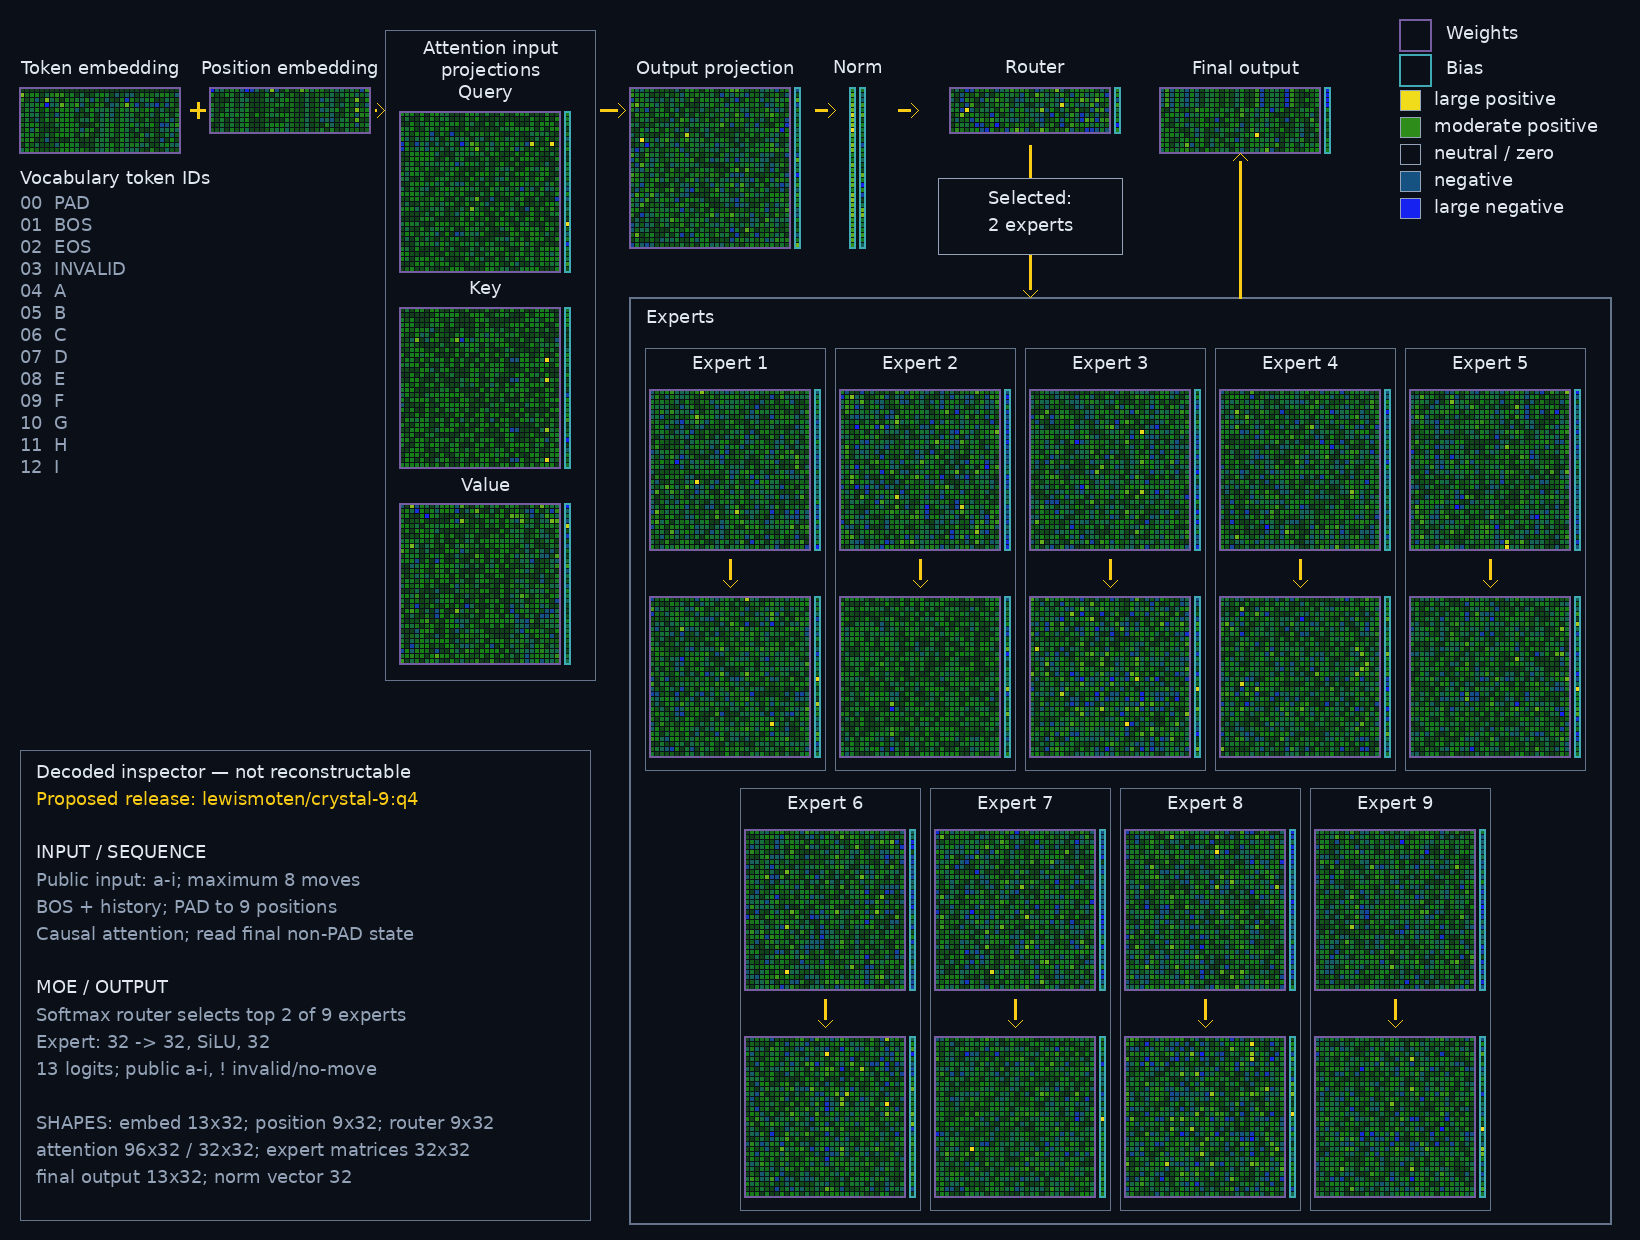
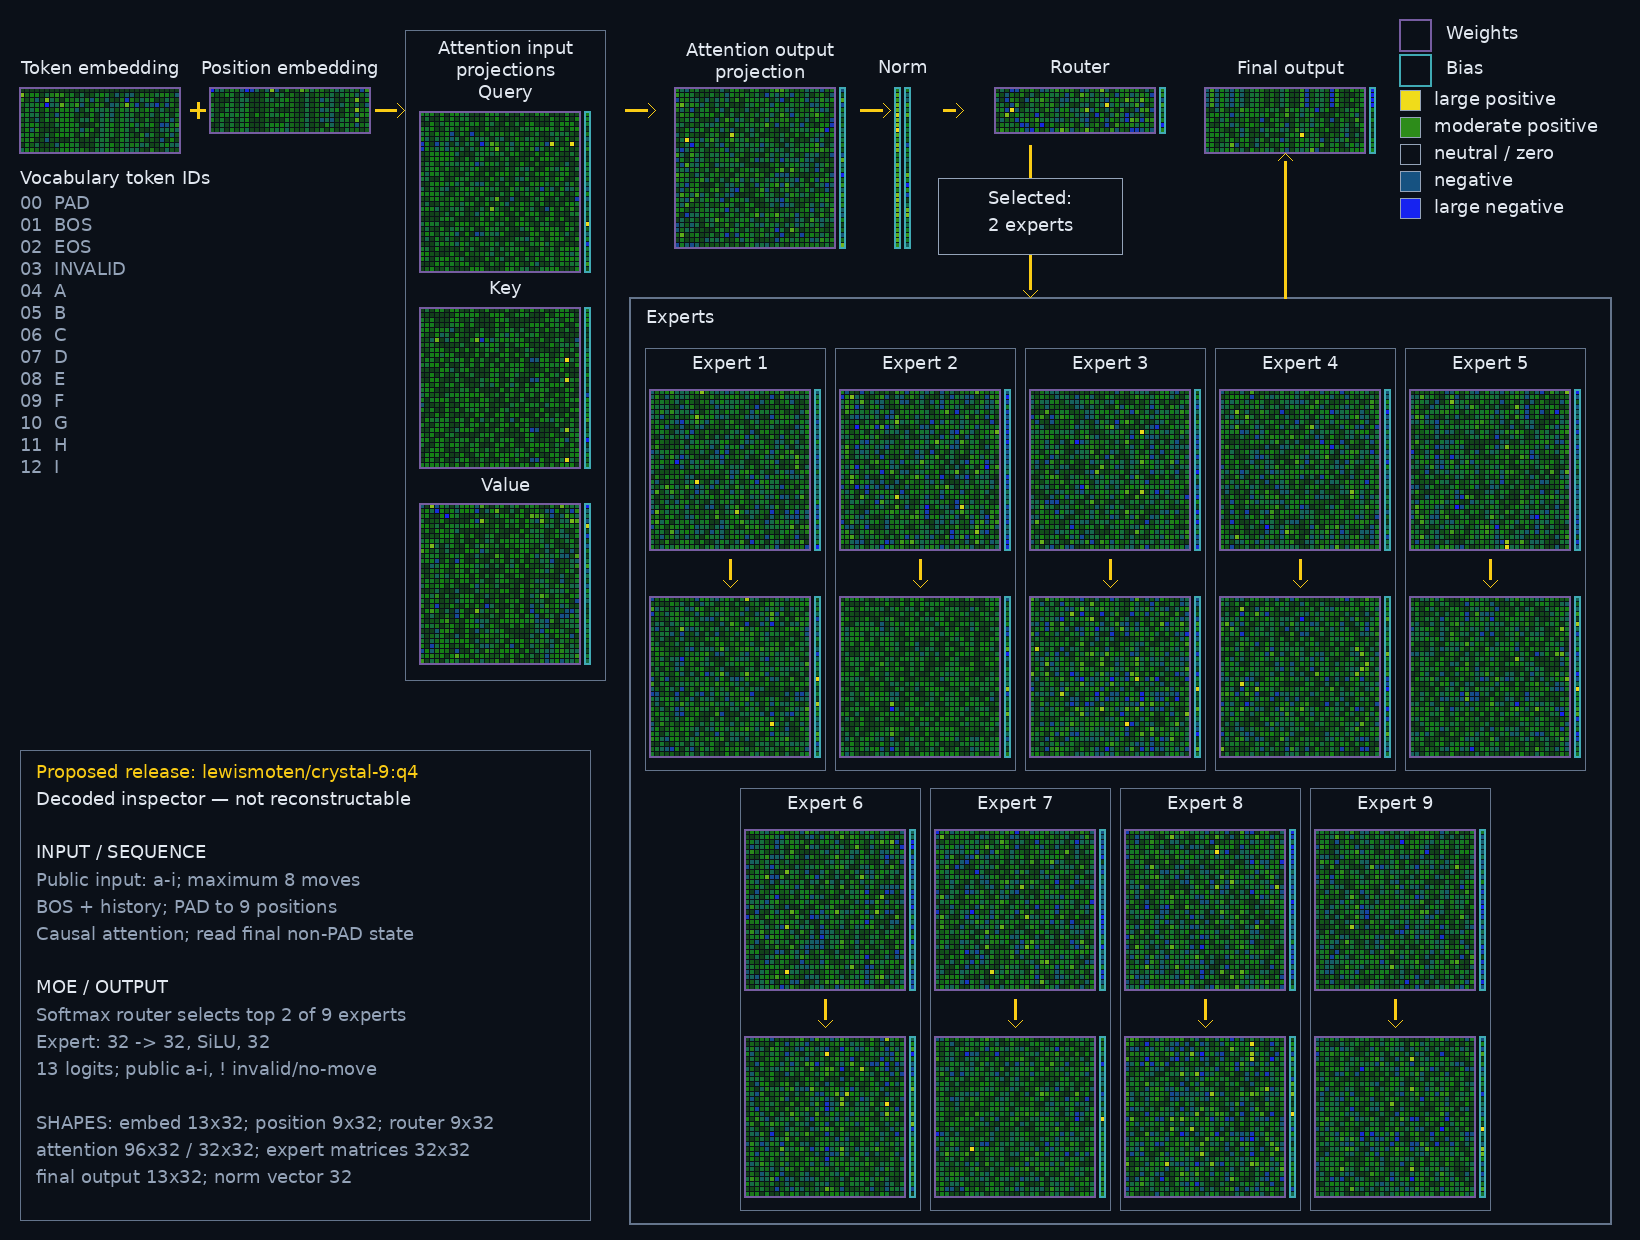
Refine attention inspector flow

Changed region(s): [[0.2177, 0.0306, 0.8396, 0.5516], [0.0, 0.6129, 0.2488, 0.6742]]

diff --git a/tools/tensor_inspector.py b/tools/tensor_inspector.py
@@ -153,7 +153,12 @@ def _render_pair(rgb: bytearray, width: int, state: dict[str, torch.Tensor], wei
     weight_columns = _shape(state[weight])[1]
     total_width = weight_columns * _CELL + _CELL * 2
     if label:
-        _centered_text(rgb, width, x + total_width // 2, y + 20, label, _LABEL)
+        label_lines = label.split("\n")
+        if len(label_lines) == 1:
+            _centered_text(rgb, width, x + total_width // 2, y + 20, label, _LABEL)
+        else:
+            for index, line in enumerate(label_lines):
+                _centered_text(rgb, width, x + total_width // 2, y + 2 + index * 22, line, _LABEL)
     grid_y = y + _HEADER_HEIGHT
     weight_width, weight_height = _render_tensor(rgb, width, state[weight], x, grid_y)
     bias_x = x + weight_width + _CELL
@@ -163,7 +168,7 @@ def _render_pair(rgb: bytearray, width: int, state: dict[str, torch.Tensor], wei
 
 def _render_attention_input_projections(rgb: bytearray, width: int, state: dict[str, torch.Tensor], x: int, y: int) -> None:
     """Render PyTorch's packed Q/K/V input projection as three logical pairs."""
-    group_x, group_y, group_width, group_height = x - 15, y, 210, 650
+    group_x, group_y, group_width, group_height = x - 15, y, 200, 650
     _rectangle(rgb, width, group_x, group_y, group_width, group_height, _EXPERT_BORDER, 1)
     _centered_text(rgb, width, group_x + group_width // 2, group_y + 10, "Attention input", _LABEL)
     _centered_text(rgb, width, group_x + group_width // 2, group_y + 32, "projections", _LABEL)
@@ -198,8 +203,8 @@ def _render_execution_contract(rgb: bytearray, width: int, x: int, y: int) -> No
     panel_width, panel_height = 570, 470
     _rectangle(rgb, width, x, y, panel_width, panel_height, _EXPERT_BORDER, 1)
     lines = (
-        ("Decoded inspector — not reconstructable", _LABEL),
         ("Proposed release: lewismoten/crystal-9:q4", _FLOW),
+        ("Decoded inspector — not reconstructable", _LABEL),
         ("", _LABEL),
         ("INPUT / SEQUENCE", _LABEL),
         ("Public input: a-i; maximum 8 moves", _MUTED),
@@ -234,21 +239,21 @@ def render_checkpoint_inspector(source: Path) -> tuple[bytes, dict[str, object]]
     top_y, flow_y = 40, 110
     _render_single(rgb, width, state, "embedding.weight", "Token embedding", 20, top_y)
     _render_single(rgb, width, state, "position.weight", "Position embedding", 210, top_y)
-    _render_attention_input_projections(rgb, width, state, 400, 30)
-    _render_pair(rgb, width, state, "attention.out_proj.weight", "attention.out_proj.bias", "Output projection", 630, top_y)
-    _render_pair(rgb, width, state, "norm.weight", "norm.bias", "Norm", 850, top_y)
-    _render_pair(rgb, width, state, "router.weight", "router.bias", "Router", 950, top_y)
-    _render_pair(rgb, width, state, "output.weight", "output.bias", "Final output", 1160, top_y)
+    _render_attention_input_projections(rgb, width, state, 420, 30)
+    _render_pair(rgb, width, state, "attention.out_proj.weight", "attention.out_proj.bias", "Attention output\nprojection", 675, top_y)
+    _render_pair(rgb, width, state, "norm.weight", "norm.bias", "Norm", 895, top_y)
+    _render_pair(rgb, width, state, "router.weight", "router.bias", "Router", 995, top_y)
+    _render_pair(rgb, width, state, "output.weight", "output.bias", "Final output", 1205, top_y)
     _render_vocabulary(rgb, width, 20, 170)
     _render_execution_contract(rgb, width, 20, 750)
 
     # Token and position embeddings are combined elementwise before attention.
     _line(rgb, width, 190, flow_y, 205, flow_y)
     _line(rgb, width, 198, flow_y - 8, 198, flow_y + 8)
-    _arrow(rgb, width, 375, flow_y, 384, flow_y)
-    _arrow(rgb, width, 600, flow_y, 625, flow_y)
-    _arrow(rgb, width, 815, flow_y, 835, flow_y)
-    _arrow(rgb, width, 898, flow_y, 918, flow_y)
+    _arrow(rgb, width, 375, flow_y, 404, flow_y)
+    _arrow(rgb, width, 625, flow_y, 655, flow_y)
+    _arrow(rgb, width, 860, flow_y, 890, flow_y)
+    _arrow(rgb, width, 943, flow_y, 963, flow_y)
 
     # Begin below Output projection, then use a 5+4 grid so every expert can contain its full weight+bias pair.
     expert_y, expert_gap, expert_width = 340, 10, 180
@@ -274,7 +279,7 @@ def render_checkpoint_inspector(source: Path) -> tuple[bytes, dict[str, object]]
         _render_pair(rgb, width, state, f"experts.{expert}.2.weight", f"experts.{expert}.2.bias", "", x, row_y + 209)
         _arrow(rgb, width, x + 80, row_y + 219, x + 80, row_y + 247)
     # The return uses a straight reserved lane and terminates immediately below the Final output weight matrix.
-    output_return_x, output_matrix_bottom = 1240, 153
+    output_return_x, output_matrix_bottom = 1285, 153
     _arrow(rgb, width, output_return_x, expert_top, output_return_x, output_matrix_bottom)
 
     # Top-right legend uses unused canvas space, leaving the full lower-left lane for the execution contract.
@@ -295,7 +300,7 @@ def render_checkpoint_inspector(source: Path) -> tuple[bytes, dict[str, object]]
         _text(rgb, width, legend_x + 34, y + 1, label, _LABEL)
 
     metadata = {
-        "format": "crystal-9-tensor-inspector-v23", "source": source.name,
+        "format": "crystal-9-tensor-inspector-v27", "source": source.name,
         "source_sha256": hashlib.sha256(source.read_bytes()).hexdigest(), "tensor_count": len(state),
         "representation": "decoded inspector; not reconstructable",
         "proposed_deployment_tag": "lewismoten/crystal-9:q4",
@@ -307,8 +312,29 @@ def render_checkpoint_inspector(source: Path) -> tuple[bytes, dict[str, object]]
             "expert": "32 -> 32 SiLU -> 32",
             "public_output": "a-i; ! is invalid/no-move sentinel",
         },
-        "normalization": "per-tensor symmetric max-absolute", "layout": "architecture-flow-v23",
-        "legend_location": "top-right", "execution_contract_panel": {"location": "bottom-left", "bounds": [20, 750, 570, 470]},
+        "normalization": "per-tensor symmetric max-absolute", "layout": "architecture-flow-v27",
+        "legend_location": "top-right",
+        "execution_contract_panel": {
+            "location": "bottom-left",
+            "bounds": [20, 750, 570, 470],
+            "header_lines": [
+                "Proposed release: lewismoten/crystal-9:q4",
+                "Decoded inspector — not reconstructable",
+            ],
+        },
+        "top_row_layout": {
+            "attention_input_projection_x": 420,
+            "attention_input_projection_group_bounds": [405, 30, 200, 650],
+            "attention_output_projection_x": 675,
+            "attention_output_projection_label": "Attention output projection",
+            "attention_output_projection_display_lines": ["Attention output", "projection"],
+            "norm_x": 895,
+            "router_x": 995,
+            "final_output_x": 1205,
+            "final_output_return_x": 1285,
+            "post_position_arrow": {"start_x": 375, "end_x": 404},
+            "attention_input_to_output_arrow": {"start_x": 625, "end_x": 655},
+        },
         "attention_input_projection": {
             "group_label": "Attention input projections", "packed_weight_shape": [96, 32],
             "segments": {

diff --git a/tests/test_tensor_inspector.py b/tests/test_tensor_inspector.py
@@ -15,10 +15,30 @@ def test_checkpoint_inspector_renders_actual_tensor_inventory_as_png():
     assert metadata["tensors"]["attention.in_proj_weight"]["shape"] == [96, 32]
     assert metadata["tensors"]["experts.0.0.weight"]["shape"] == [32, 32]
     assert metadata["normalization"] == "per-tensor symmetric max-absolute"
-    assert metadata["layout"] == "architecture-flow-v23"
+    assert metadata["layout"] == "architecture-flow-v27"
     assert metadata["width"] == 1640
     assert metadata["legend_location"] == "top-right"
-    assert metadata["execution_contract_panel"] == {"location": "bottom-left", "bounds": [20, 750, 570, 470]}
+    assert metadata["execution_contract_panel"] == {
+        "location": "bottom-left",
+        "bounds": [20, 750, 570, 470],
+        "header_lines": [
+            "Proposed release: lewismoten/crystal-9:q4",
+            "Decoded inspector — not reconstructable",
+        ],
+    }
+    assert metadata["top_row_layout"] == {
+        "attention_input_projection_x": 420,
+        "attention_input_projection_group_bounds": [405, 30, 200, 650],
+        "attention_output_projection_x": 675,
+        "attention_output_projection_label": "Attention output projection",
+        "attention_output_projection_display_lines": ["Attention output", "projection"],
+        "norm_x": 895,
+        "router_x": 995,
+        "final_output_x": 1205,
+        "final_output_return_x": 1285,
+        "post_position_arrow": {"start_x": 375, "end_x": 404},
+        "attention_input_to_output_arrow": {"start_x": 625, "end_x": 655},
+    }
     assert metadata["attention_input_projection"] == {
         "group_label": "Attention input projections",
         "packed_weight_shape": [96, 32],

diff --git a/tools/export_tensor_inspectors.py b/tools/export_tensor_inspectors.py
@@ -31,7 +31,7 @@ def main() -> None:
             "tensor_count": metadata["tensor_count"], "width": metadata["width"], "height": metadata["height"],
             "normalization": metadata["normalization"], "derived": True,
         })
-    (OUTPUT.parent / "inspectors.json").write_text(json.dumps({"format": "crystal-9-tensor-inspector-v23", "inspectors": inspectors}, indent=2) + "\n")
+    (OUTPUT.parent / "inspectors.json").write_text(json.dumps({"format": "crystal-9-tensor-inspector-v27", "inspectors": inspectors}, indent=2) + "\n")
 
 
 if __name__ == "__main__":
